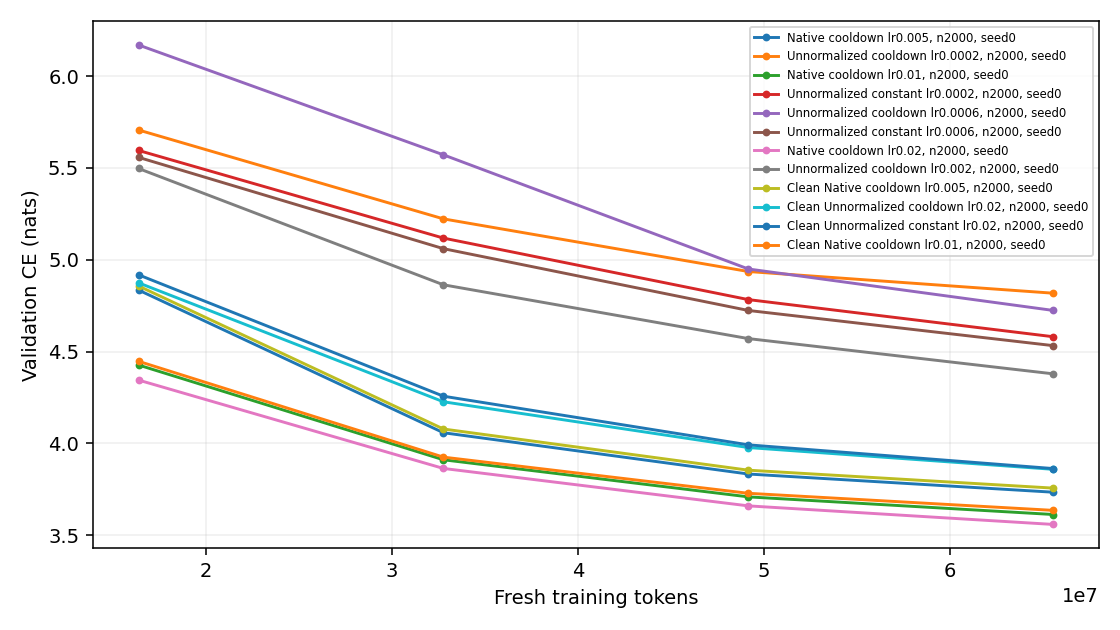
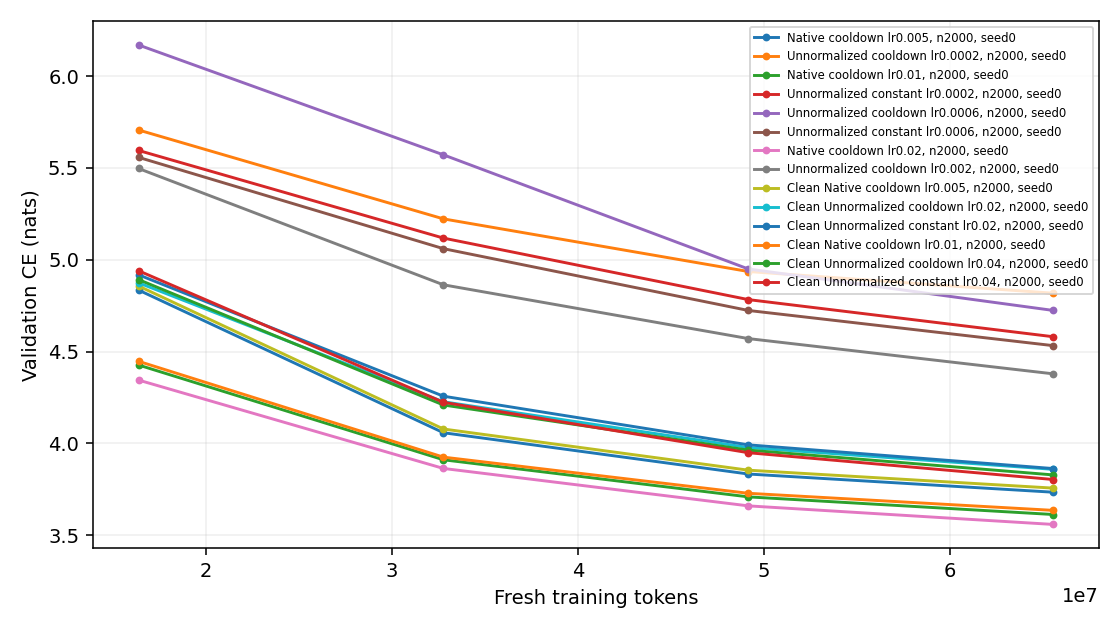
Update live Muon experiment results

diff --git a/research/unnormalized_muon/RESULTS.md b/research/unnormalized_muon/RESULTS.md
@@ -10,6 +10,8 @@ One B300 per job. CE is token cross-entropy (nats); lower is better. Rows with d
 | um-clean-grid-00-1-cooldown-lr0p02 | Clean Unnormalized cooldown | 2000 | 0 | 0.02 | 3.859137 | 1.169816 | — | 164.02 |
 | um-clean-grid-00-2-constant-lr0p02 | Clean Unnormalized constant | 2000 | 0 | 0.02 | 3.863261 | 1.171071 | — | 157.17 |
 | um-clean-grid-01-0-normalized-lr0p01 | Clean Native cooldown | 2000 | 0 | 0.01 | 3.635674 | 1.102157 | — | 142.86 |
+| um-clean-grid-01-1-cooldown-lr0p04 | Clean Unnormalized cooldown | 2000 | 0 | 0.04 | 3.828638 | 1.160576 | — | 151.79 |
+| um-clean-grid-01-2-constant-lr0p04 | Clean Unnormalized constant | 2000 | 0 | 0.04 | 3.803687 | 1.153028 | — | 146.02 |
 | um-fw-diagnostic-001 | FW backtracking | 64 | 0 | 0.02 | 6.469995 | 1.960658 | — | 95.07 |
 | um-fw-diagnostic-002 | FW backtracking | 64 | 0 | 0.02 | 6.900428 | 2.091122 | — | 117.14 |
 | um-screen-00-0-native-lr0p005 | Native cooldown | 2000 | 0 | 0.005 | 3.734536 | 1.132046 | — | 145.49 |
@@ -25,7 +27,7 @@ One B300 per job. CE is token cross-entropy (nats); lower is better. Rows with d
 
 Review of um-fw-diagnostic-001: Compiled training f0 compared against functional candidate losses; vanishing-step mismatch2-4e-5 exceeded tolerance, leading to curvature1e186 and45 skipped steps. Replaced by paired functional reference and candidates; retain all645 measured forwards and GPUcost.
 
-Conservative charged/reserved total: 1.9014 / 10 B300 GPU-hours. Includes prior smoke/failed attempts and current maximum-duration reservations. Three-slot central queue; one B300 per run.
+Conservative charged/reserved total: 1.6614 / 10 B300 GPU-hours. Includes prior smoke/failed attempts and current maximum-duration reservations. Three-slot central queue; one B300 per run.
 
 Current CLEAN comparison: no row equilibration, NorMuon, or Muon decay in either arm. Same five Polar Express steps and Frobenius correction; scale by the per-matrix nonnegative FP32 inner product of the native Nesterov input with the NS/Frobenius direction. Shape scaling occurs once outside the scalar. Legacy rows retain production extras and must be compared separately. Constant schedule changes only matrix LR; auxiliary schedules and momentum remain matched.
 
